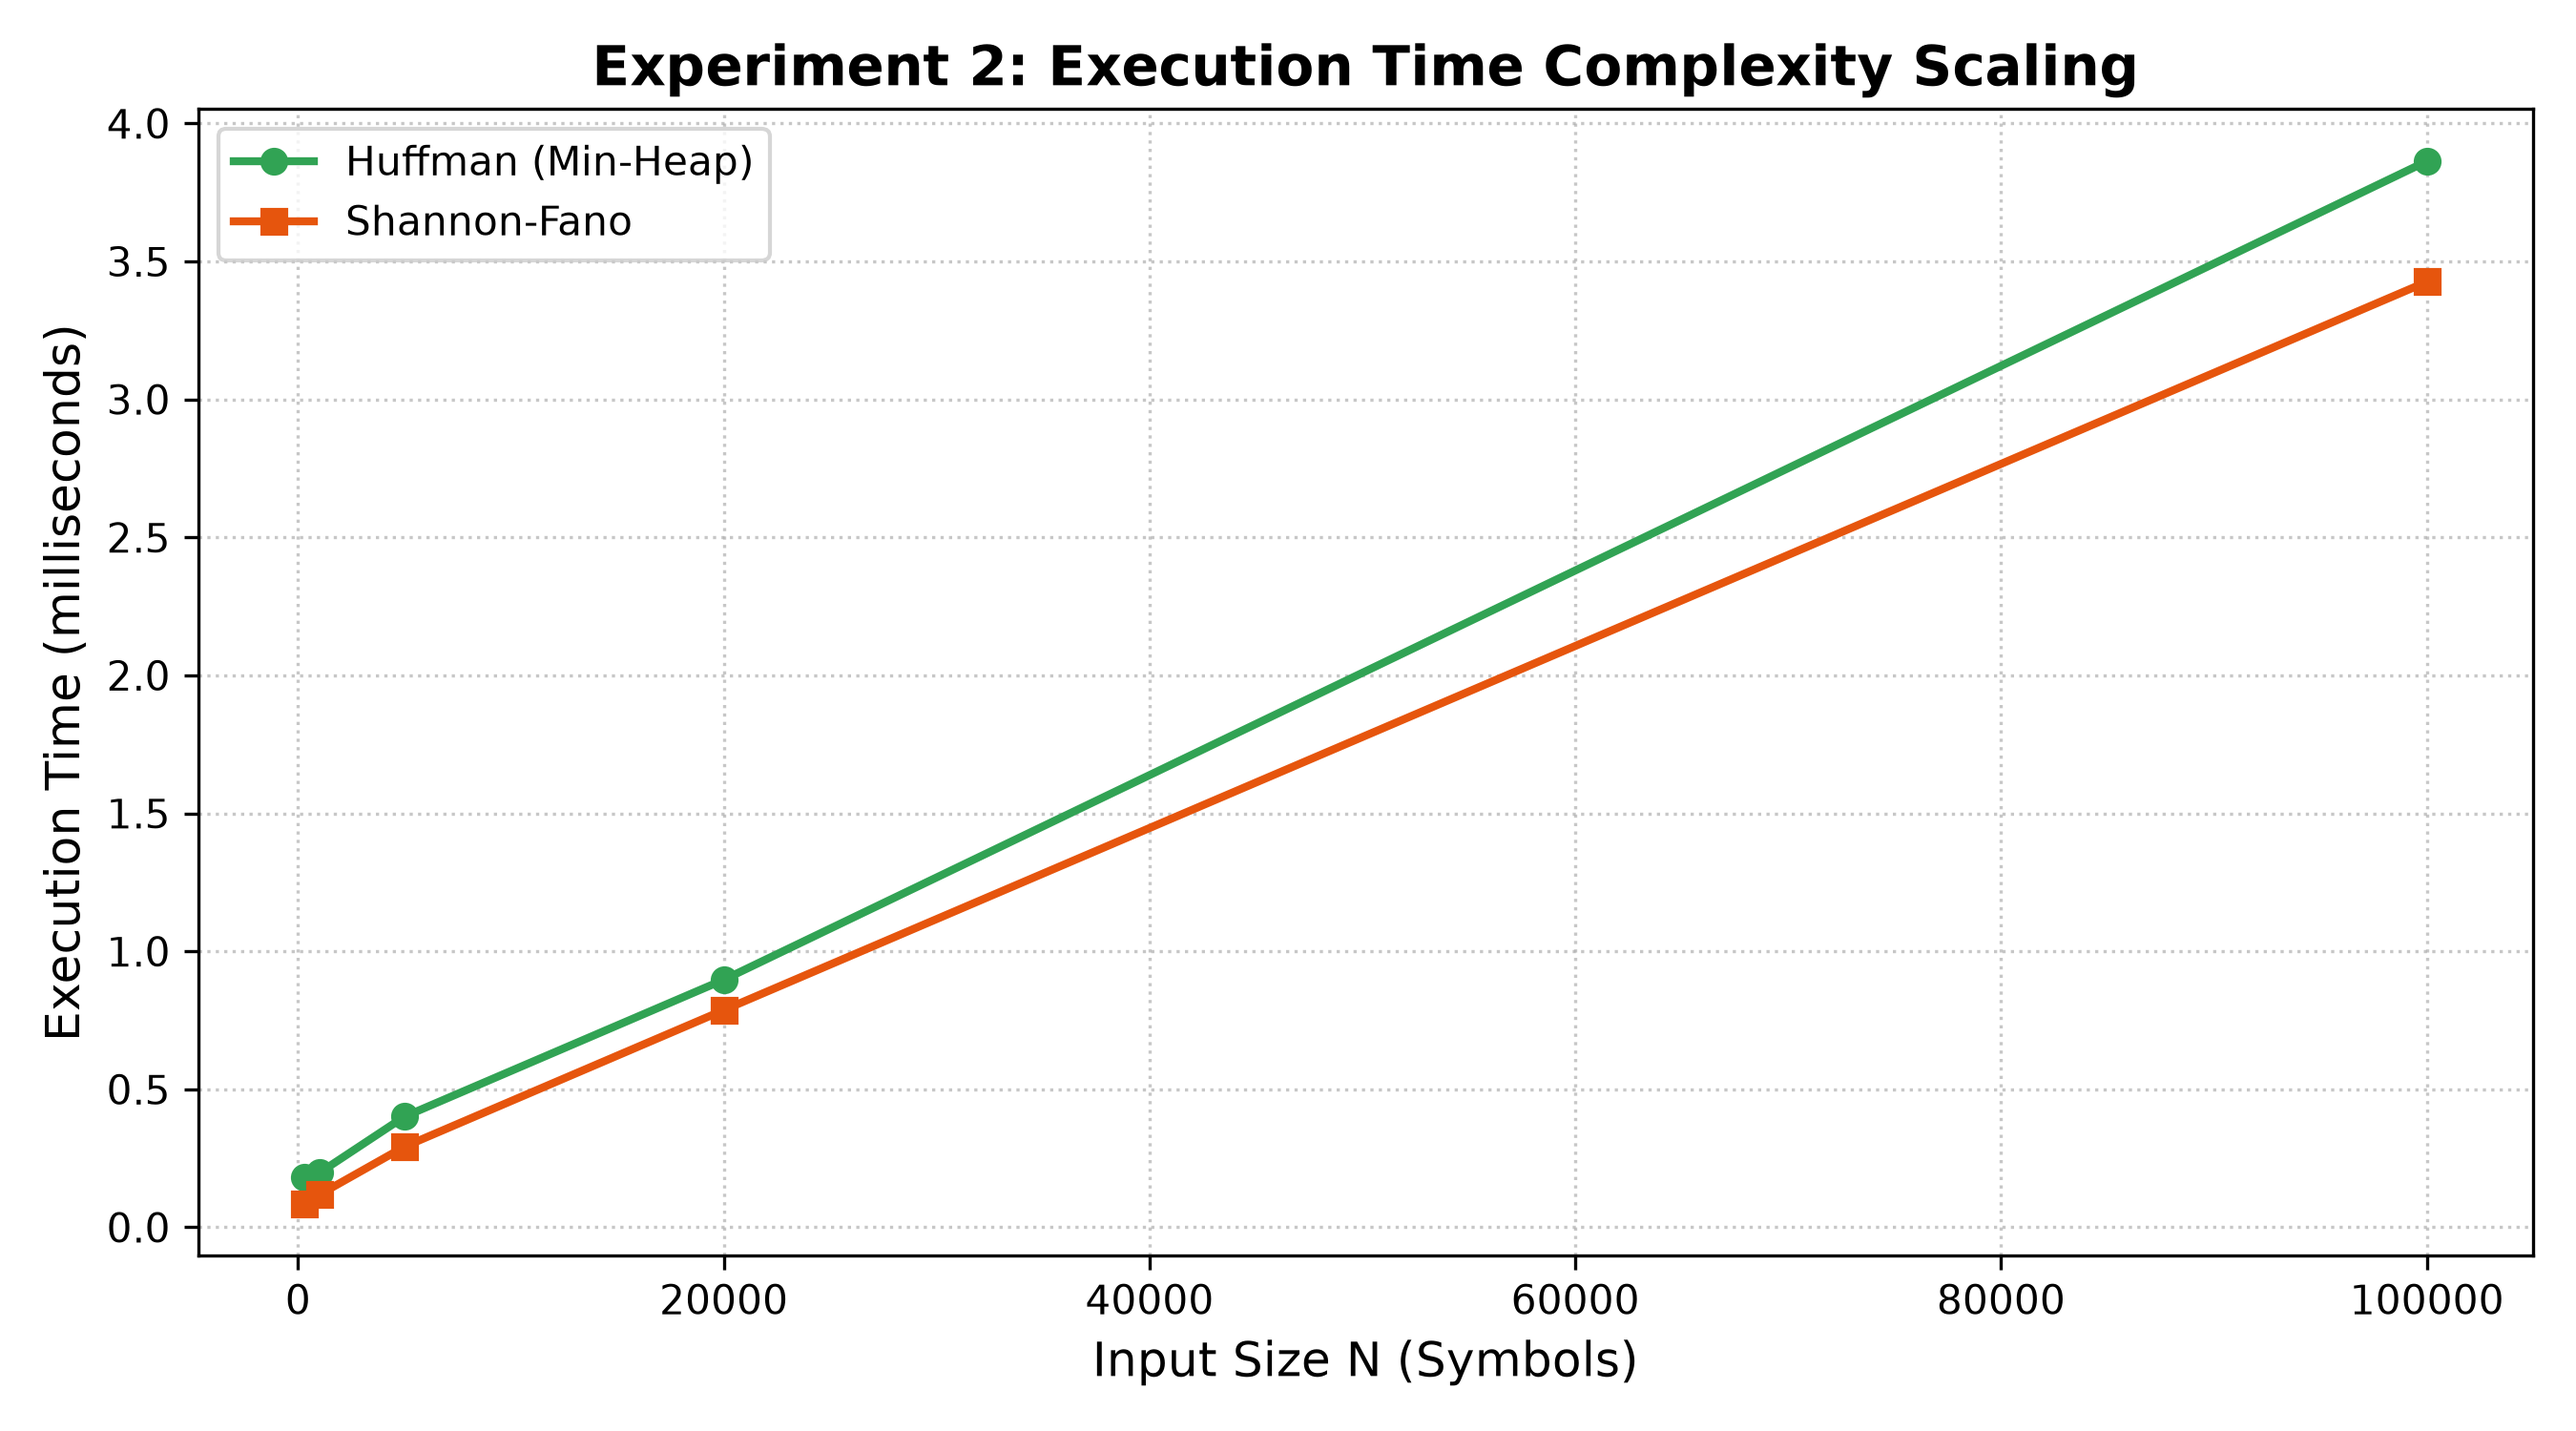
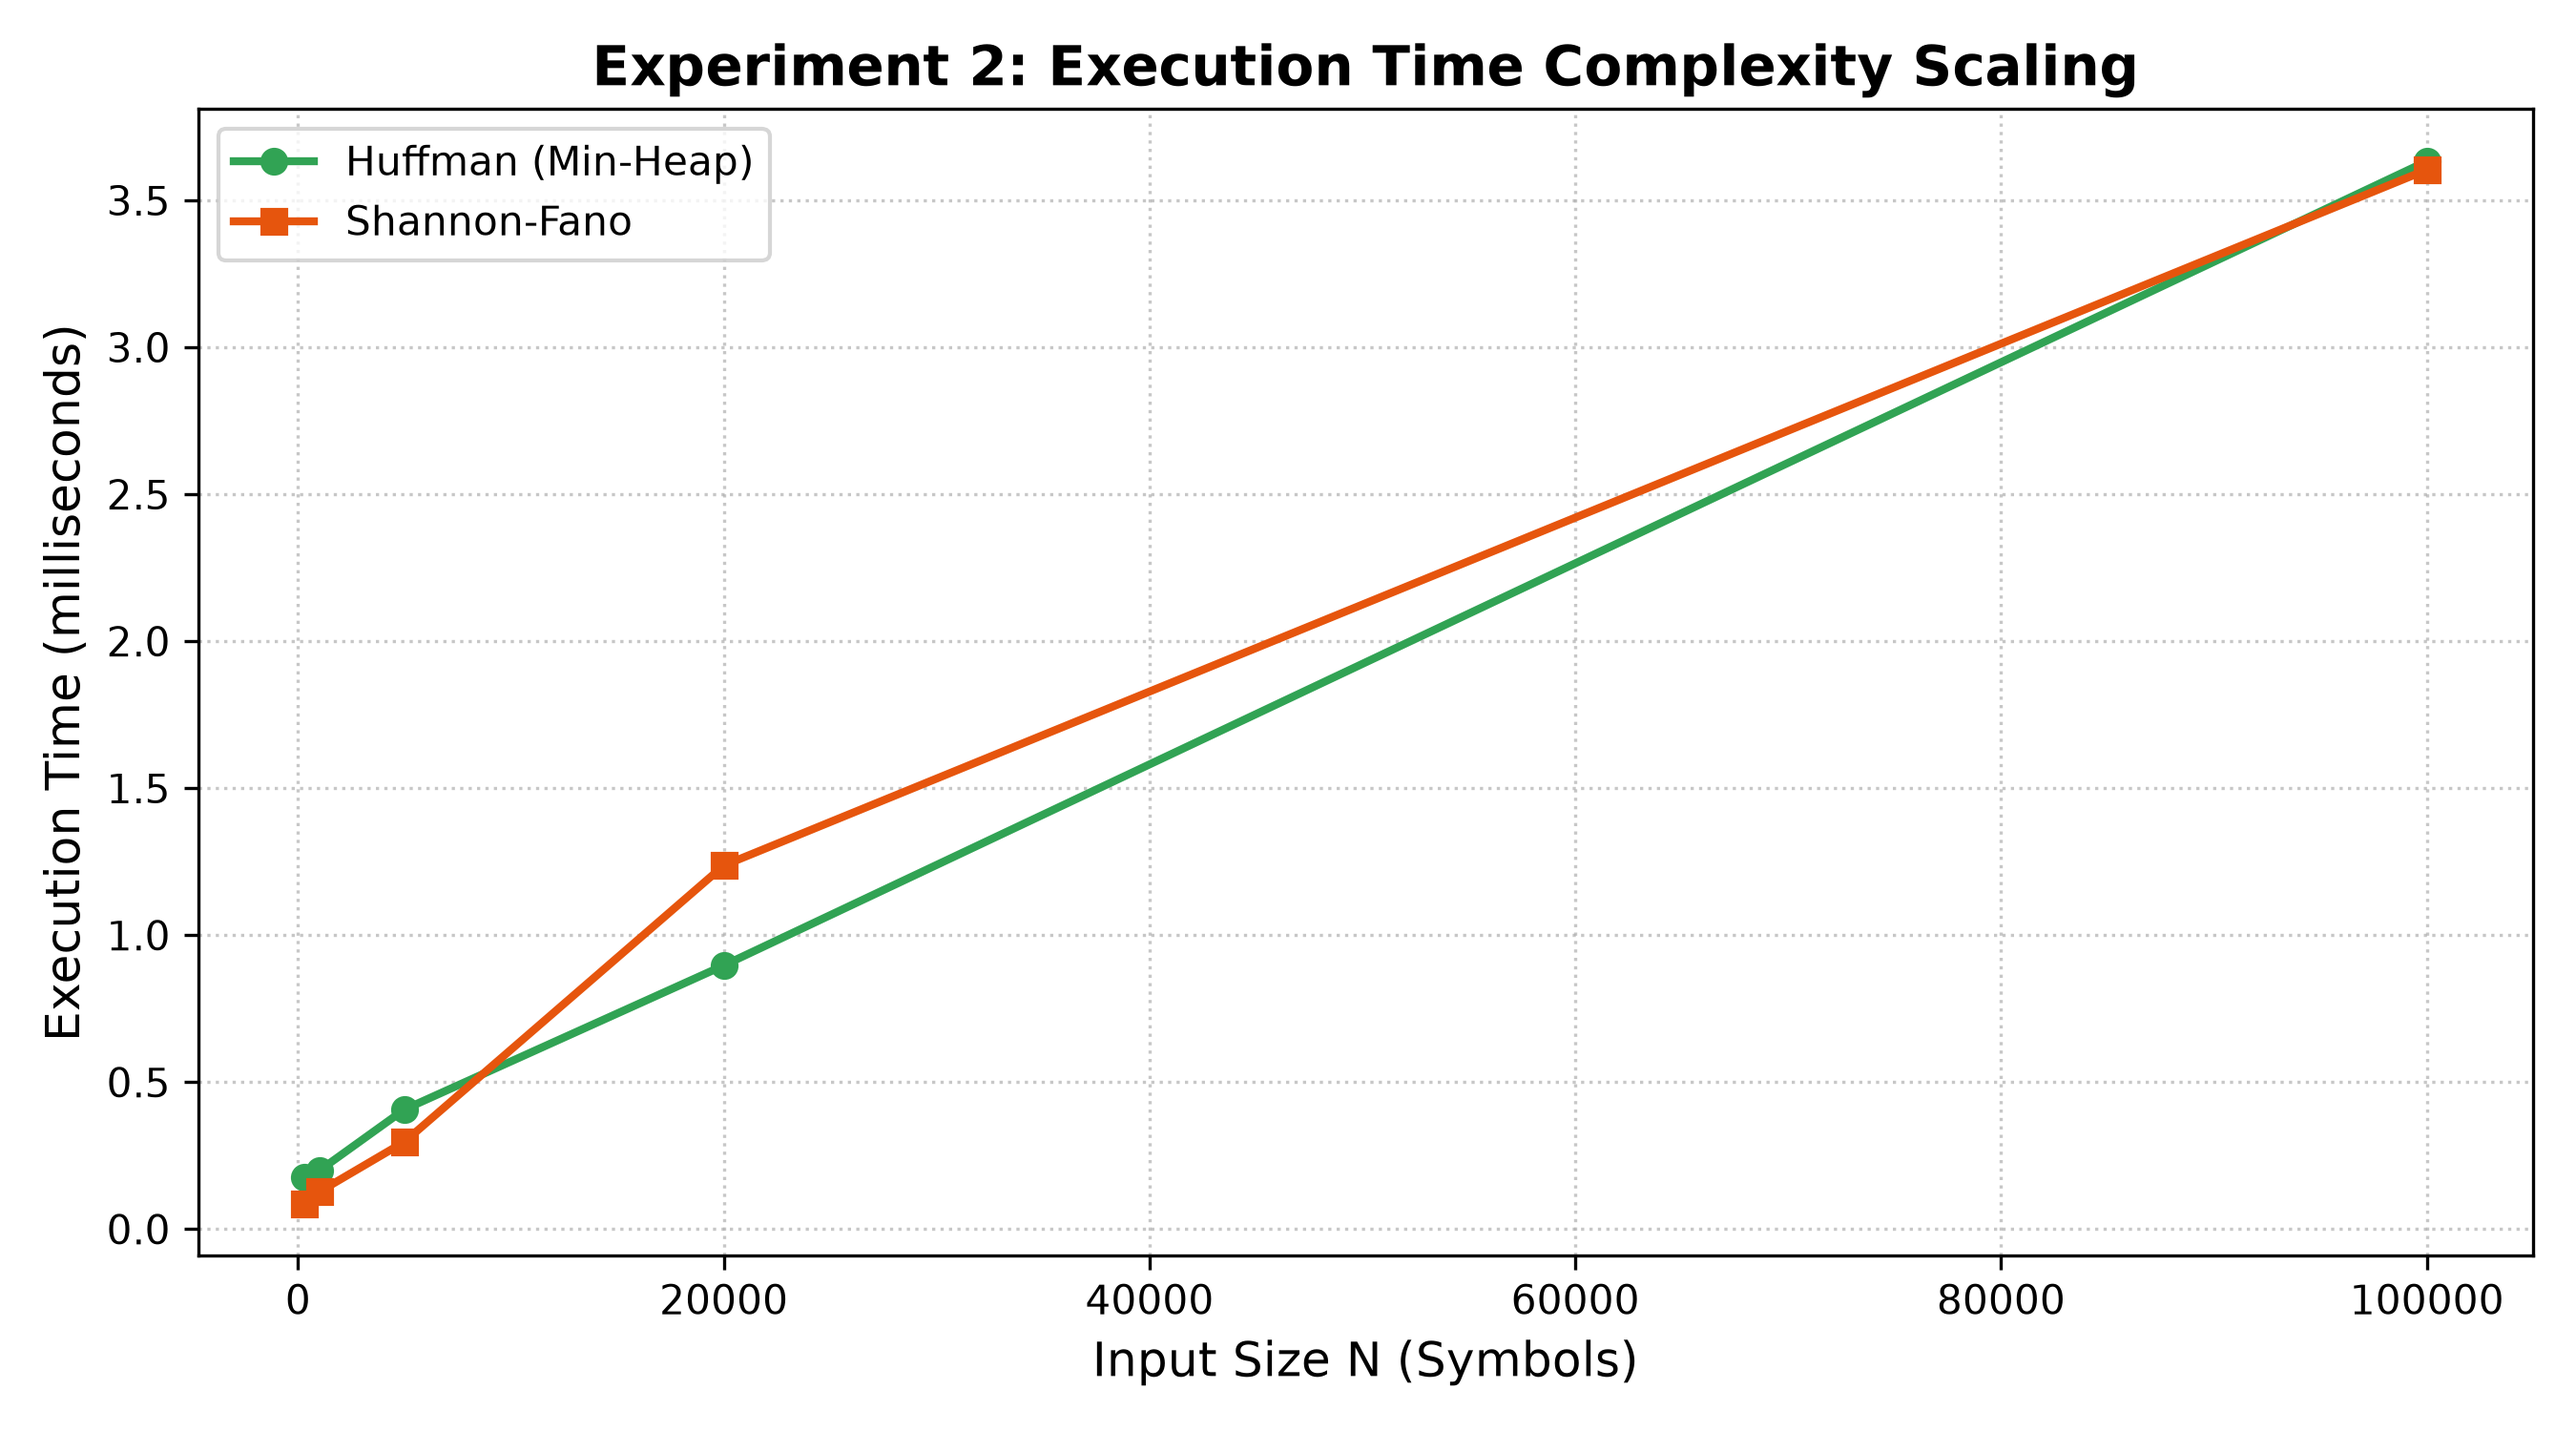
Fix: Make dataset and plot paths dynamically resolved relative to project root

diff --git a/experiments/benchmark.py b/experiments/benchmark.py
@@ -14,7 +14,8 @@ import pandas as pd
 import matplotlib.pyplot as plt
 
 # Ensure root folder is in sys.path
-sys.path.append(os.path.abspath(os.path.join(os.path.dirname(__file__), "..")))
+PROJECT_ROOT = os.path.abspath(os.path.join(os.path.dirname(__file__), ".."))
+sys.path.append(PROJECT_ROOT)
 
 from src.huffman import HuffmanTree
 from src.shannon_fano import ShannonFanoTree
@@ -33,10 +34,10 @@ def run_experiment_1_data_types():
     print("=" * 70)
 
     datasets = {
-        "English Text": "data/sample_english.txt",
-        "Python Code": "data/sample_code.py",
-        "Genomic DNA": "data/sample_dna.fasta",
-        "Uniform Random": "data/sample_uniform.txt"
+        "English Text": os.path.join(PROJECT_ROOT, "data", "sample_english.txt"),
+        "Python Code": os.path.join(PROJECT_ROOT, "data", "sample_code.py"),
+        "Genomic DNA": os.path.join(PROJECT_ROOT, "data", "sample_dna.fasta"),
+        "Uniform Random": os.path.join(PROJECT_ROOT, "data", "sample_uniform.txt")
     }
 
     results = []
@@ -91,8 +92,9 @@ def run_experiment_1_data_types():
     print(df.to_string(index=False))
 
     # Save CSV
-    os.makedirs("experiments/plots", exist_ok=True)
-    df.to_csv("experiments/plots/experiment1_results.csv", index=False)
+    plots_dir = os.path.join(PROJECT_ROOT, "experiments", "plots")
+    os.makedirs(plots_dir, exist_ok=True)
+    df.to_csv(os.path.join(plots_dir, "experiment1_results.csv"), index=False)
 
     # Plot 1: Entropy vs Huffman Avg Length vs Shannon-Fano Avg Length
     plt.figure(figsize=(10, 6))
@@ -110,7 +112,7 @@ def run_experiment_1_data_types():
     plt.legend()
     plt.grid(axis="y", linestyle=":", alpha=0.7)
     plt.tight_layout()
-    plt.savefig("experiments/plots/exp1_entropy_vs_codelength.png", dpi=300)
+    plt.savefig(os.path.join(plots_dir, "exp1_entropy_vs_codelength.png"), dpi=300)
     plt.close()
     print("[OK] Plot saved: experiments/plots/exp1_entropy_vs_codelength.png")
 
@@ -128,7 +130,8 @@ def run_experiment_2_varying_size():
     print("=" * 70)
 
     # Read base English text and repeat to generate controlled sizes
-    with open("data/sample_english.txt", "r", encoding="utf-8") as f:
+    sample_text_path = os.path.join(PROJECT_ROOT, "data", "sample_english.txt")
+    with open(sample_text_path, "r", encoding="utf-8") as f:
         base_text = f.read()
 
     sizes = [300, 1000, 5000, 20000, 100000]
@@ -160,7 +163,8 @@ def run_experiment_2_varying_size():
 
     df = pd.DataFrame(results)
     print(df.to_string(index=False))
-    df.to_csv("experiments/plots/experiment2_results.csv", index=False)
+    plots_dir = os.path.join(PROJECT_ROOT, "experiments", "plots")
+    df.to_csv(os.path.join(plots_dir, "experiment2_results.csv"), index=False)
 
     # Plot 2: Runtime scaling
     plt.figure(figsize=(9, 5))
@@ -172,7 +176,7 @@ def run_experiment_2_varying_size():
     plt.legend()
     plt.grid(True, linestyle=":", alpha=0.7)
     plt.tight_layout()
-    plt.savefig("experiments/plots/exp2_runtime_scaling.png", dpi=300)
+    plt.savefig(os.path.join(plots_dir, "exp2_runtime_scaling.png"), dpi=300)
     plt.close()
     print("[OK] Plot saved: experiments/plots/exp2_runtime_scaling.png")
 

diff --git a/main.py b/main.py
@@ -15,13 +15,15 @@ from src.visualizer import HuffmanVisualizer
 
 
 def run_pipeline():
+    base_dir = os.path.dirname(os.path.abspath(__file__))
+
     print("=" * 75)
     print("  DISCRETE MATHEMATICS & GRAPH THEORY - EXPERIENTIAL LEARNING")
     print("  Topic 14: Optimal Prefix Codes & Data Compression (Huffman Coding)")
     print("=" * 75)
 
     # 1. Load dataset (must be >= 300 data points as per guidelines)
-    data_path = os.path.join("data", "sample_english.txt")
+    data_path = os.path.join(base_dir, "data", "sample_english.txt")
     if not os.path.exists(data_path):
         print(f"[-] Dataset file not found at {data_path}")
         return
@@ -91,7 +93,7 @@ def run_pipeline():
     sample_sub_text = "EXPERIENTIAL LEARNING IN GRAPH THEORY"
     vis_tree = HuffmanTree()
     vis_root = vis_tree.build_tree(sample_sub_text)
-    plot_path = os.path.join("experiments", "plots", "huffman_tree_visualization.png")
+    plot_path = os.path.join(base_dir, "experiments", "plots", "huffman_tree_visualization.png")
     HuffmanVisualizer.plot_tree(vis_root, title="Rooted Binary Prefix Code Tree (NetworkX Visualization)", save_path=plot_path)
 
     print("\n[OK] Full pipeline completed successfully without errors.")
